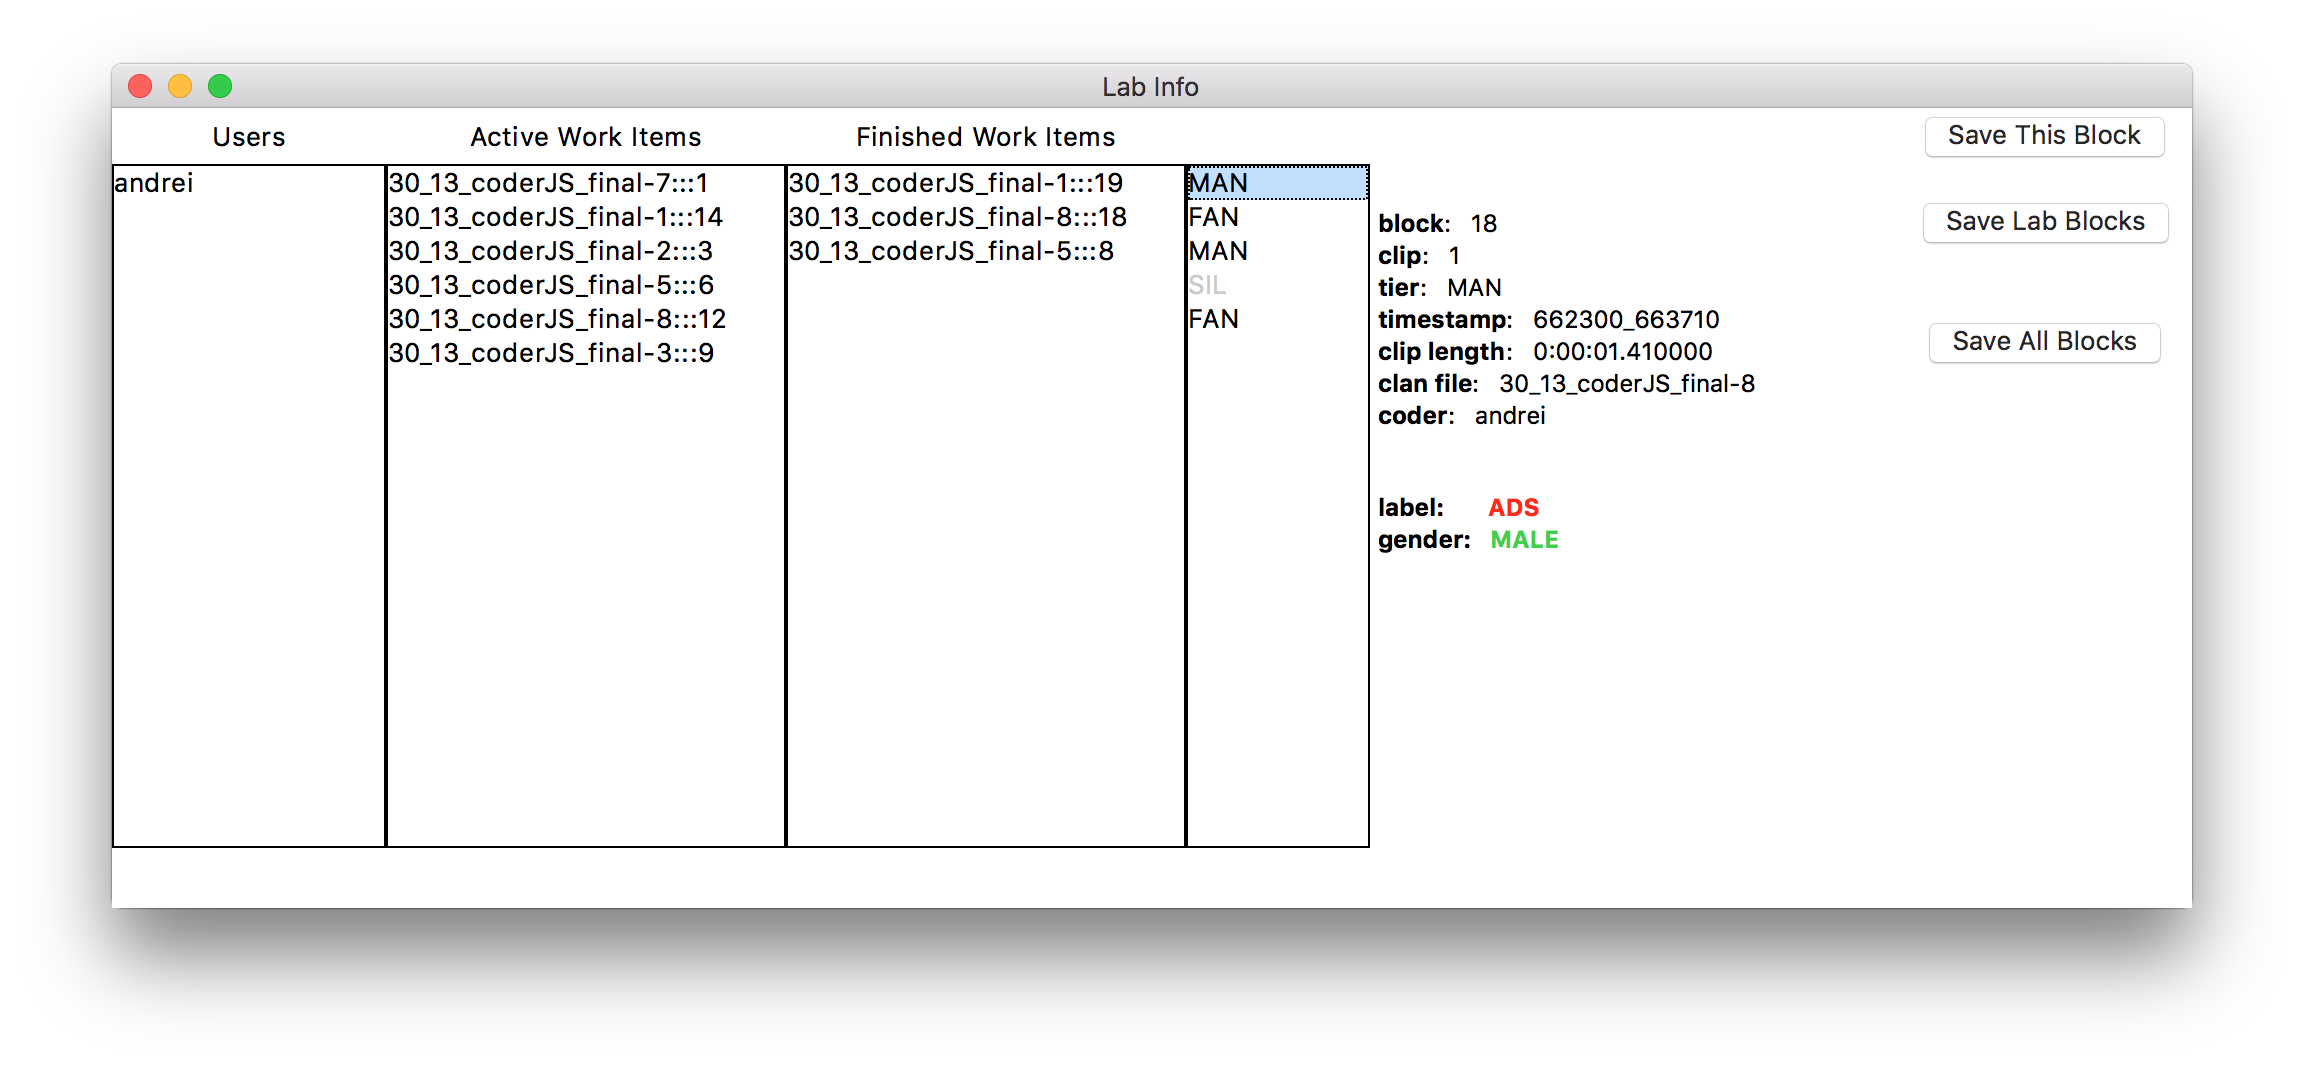
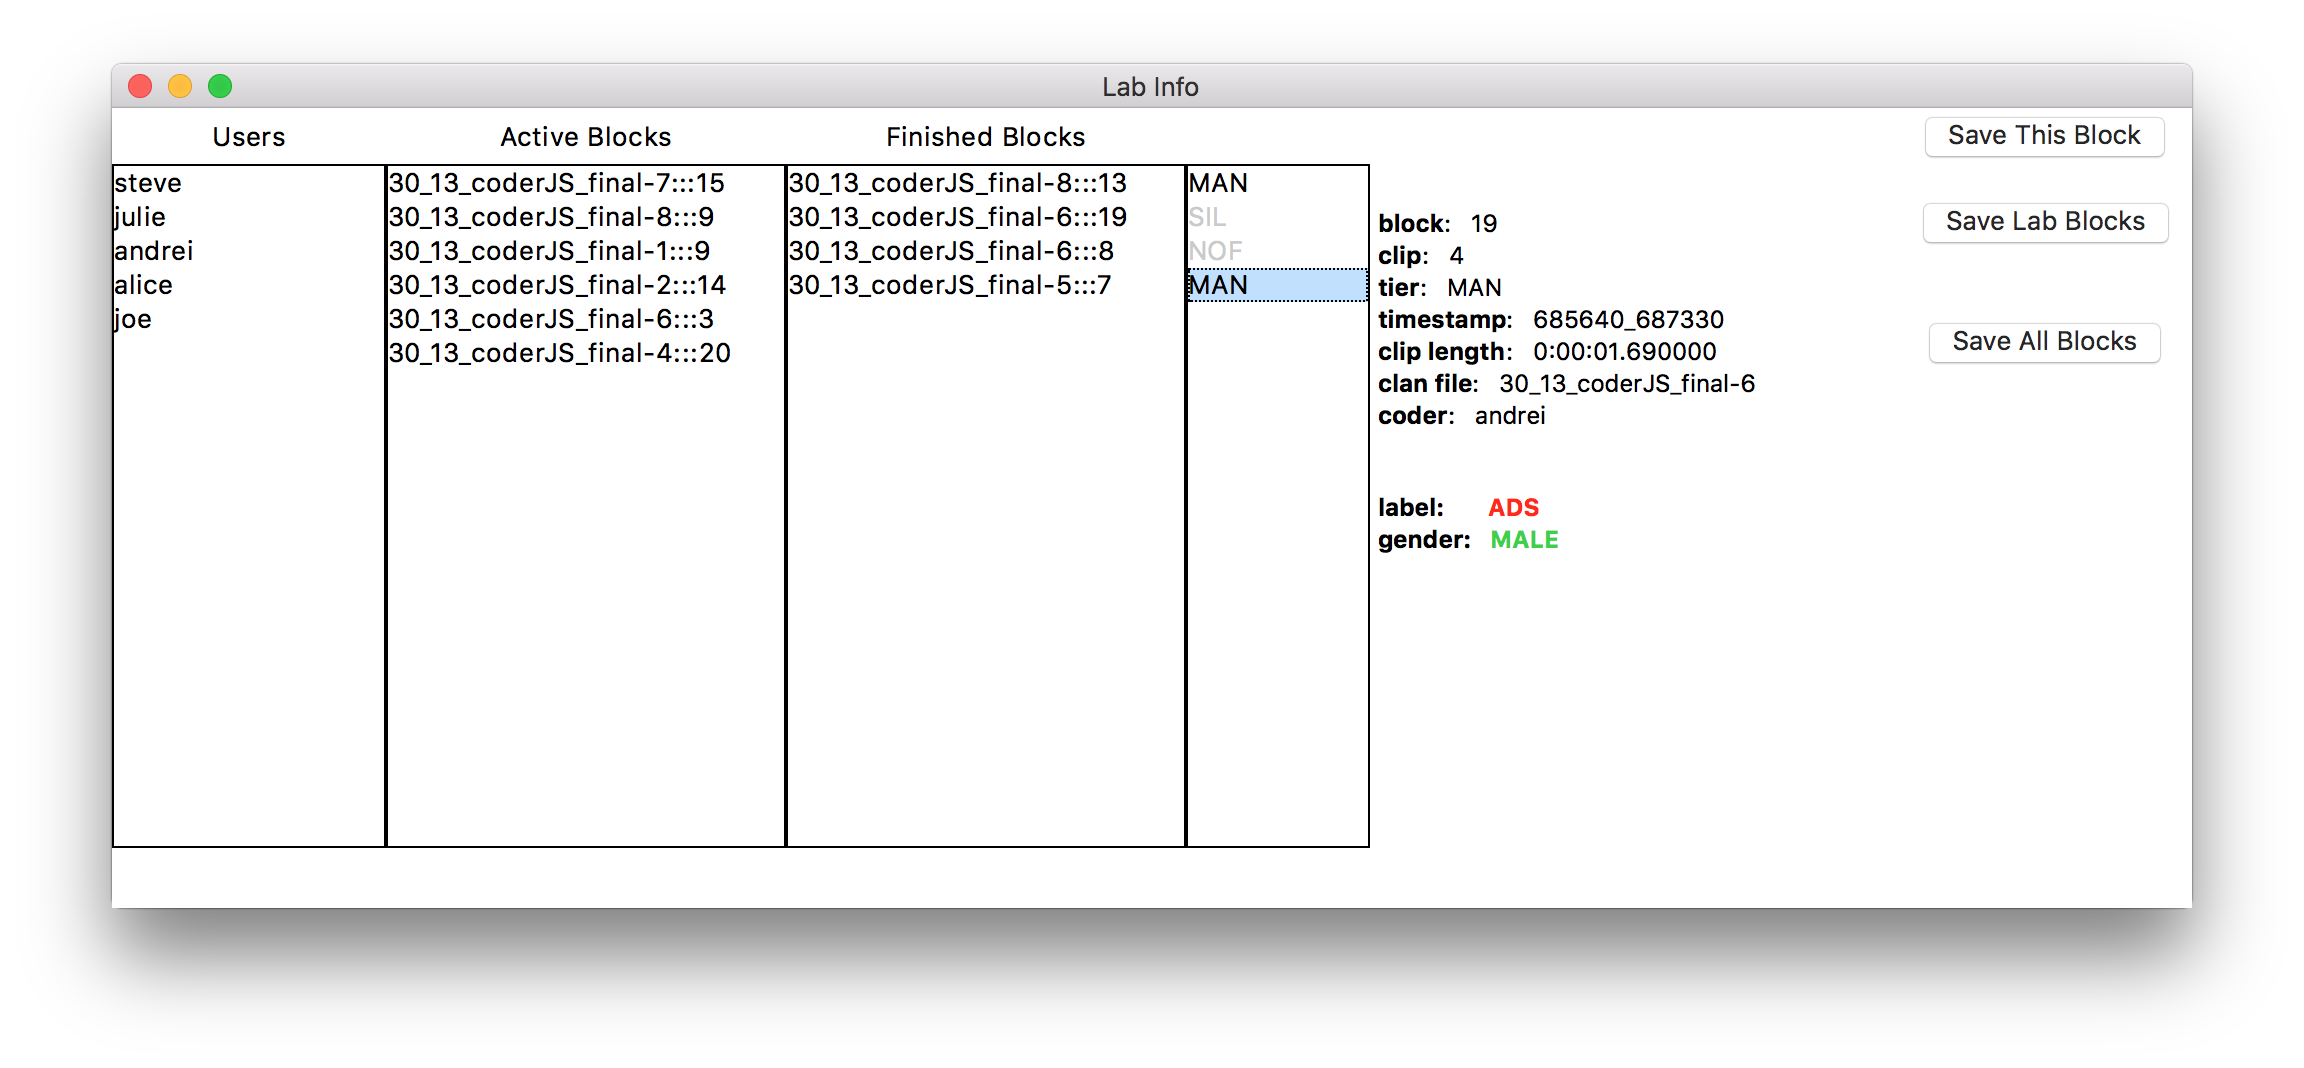
get ready for v0.0.7

diff --git a/idslabel.py b/idslabel.py
@@ -226,7 +226,7 @@ class MainWindow:
                                        command=self.next_clip)
 
         self.output_classifications_button = Button(self.main_frame,
-                                                    text="Save Labels",
+                                                    text="Save Current Block",
                                                     command=self.output_classifications)
 
         self.submit_labels_to_server_button = Button(self.main_frame,
@@ -922,7 +922,7 @@ class MainWindow:
             else:
                 self.block_list.insert(index, element.clip_tier)
 
-        self.coded_block_label = Label(self.main_frame, text="coded block #{}".format(self.current_block_index + 1))
+        self.coded_block_label = Label(self.main_frame, text="block #{}".format(self.current_block_index + 1))
         self.coded_block_label.grid(row=26, column=3)
 
         self.current_clip = self.current_block.clips[0]
@@ -967,7 +967,7 @@ class MainWindow:
             else:
                 self.block_list.insert(index, element.clip_tier)
 
-        self.coded_block_label = Label(self.main_frame, text="coded block #{}".format(self.current_block_index + 1))
+        self.coded_block_label = Label(self.main_frame, text="block #{}".format(self.current_block_index + 1))
         self.coded_block_label.grid(row=26, column=3)
 
         self.current_clip = self.current_block.clips[0]
@@ -999,7 +999,7 @@ class MainWindow:
             else:
                 self.block_list.insert(index, element.clip_tier)
 
-        self.coded_block_label = Label(self.main_frame, text="coded block #{}".format(self.current_block_index + 1))
+        self.coded_block_label = Label(self.main_frame, text="block #{}".format(self.current_block_index + 1))
         self.coded_block_label.grid(row=26, column=3)
 
         self.current_clip = self.current_block.clips[0]
@@ -1016,16 +1016,16 @@ class MainWindow:
         self.block_list.delete(0, END)
 
         for index, element in enumerate(self.current_block.clips):
-            if element.multiline:
-                self.block_list.insert(index, element.clip_tier + " ^--")
-                if element.clip_tier not in ["FAN", "MAN"]:
-                    self.block_list.itemconfig(index, fg="grey")
-            else:
-                self.block_list.insert(index, element.clip_tier)
-                if element.clip_tier not in ["FAN", "MAN"]:
-                    self.block_list.itemconfig(index, fg="grey")
+            # if element.multiline:
+            #     self.block_list.insert(index, element.clip_tier + " ^--")
+            #     if element.clip_tier not in ["FAN", "MAN"]:
+            #         self.block_list.itemconfig(index, fg="grey")
+            # else:
+            self.block_list.insert(index, element.clip_tier)
+            if element.clip_tier not in ["FAN", "MAN"]:
+                self.block_list.itemconfig(index, fg="grey")
 
-        self.coded_block_label = Label(self.main_frame, text="coded block #{}".format(self.current_block_index + 1))
+        self.coded_block_label = Label(self.main_frame, text="block #{}".format(self.current_block_index + 1))
         self.coded_block_label.grid(row=26, column=3)
 
         self.current_clip = self.current_block.clips[0]
@@ -1550,7 +1550,6 @@ class MainWindow:
             for index, lab in enumerate(self.all_lab_data):
                 self.all_lab_info_lab_box.insert(index, lab['key'])
 
-
     def lab_info_ping(self):
         if not lab_info_url:
             self.parse_config()
@@ -1829,7 +1828,6 @@ class MainWindow:
         index = int(box.curselection()[0])
 
         work_item = box.get(index)
-        print work_item
 
         if not lab_info_url:
             self.parse_config()
@@ -1842,12 +1840,10 @@ class MainWindow:
         block_data = None
         if resp.ok:
             block_data = json.loads(resp.content)
-            print block_data
             self.curr_past_block = self.json_to_block(block_data)
             self.load_block_lab_info()
         else:
             showwarning("Bad Request", "Server: {}".format(resp.content))
-            print resp.content
             return
 
     def load_block_lab_info(self):
@@ -1855,17 +1851,14 @@ class MainWindow:
         self.lab_info_past_work_box.delete(0, END)
 
         for index, element in enumerate(self.curr_past_block.clips):
-            if element.multiline:
-                self.lab_info_past_work_box.insert(index, element.clip_tier + " ^--")
-                if element.clip_tier not in ["FAN", "MAN"]:
-                    self.lab_info_past_work_box.itemconfig(index, fg="grey")
-            else:
-                self.lab_info_past_work_box.insert(index, element.clip_tier)
-                if element.clip_tier not in ["FAN", "MAN"]:
-                    self.lab_info_past_work_box.itemconfig(index, fg="grey")
+            self.lab_info_past_work_box.insert(index, element.clip_tier)
+            if element.clip_tier not in ["FAN", "MAN"]:
+                self.lab_info_past_work_box.itemconfig(index, fg="grey")
 
-        self.block_list.selection_clear(0, END)
-        self.block_list.selection_set(0)
+        self.lab_info_past_work_box.selection_clear(0, END)
+        self.lab_info_past_work_box.selection_set(0)
+
+        self.update_lab_info_curr_clip_initial()
 
     def update_lab_info_curr_clip(self, evt):
         box = evt.widget
@@ -1873,32 +1866,86 @@ class MainWindow:
 
         self.curr_lab_info_clip = self.curr_past_block.clips[index]
         work_item = box.get(index)
-        print work_item
 
         self.lab_info_past_work_info.configure(state="normal")
         self.lab_info_past_work_info.delete("1.0", END)
 
-        # block       = "block:       {}\n".format(self.curr_lab_info_clip.block_index)
-        # clip        = "clip:        {}\n".format(self.curr_lab_info_clip.clip_index)
-        # tier        = "tier:        {}\n".format(self.curr_lab_info_clip.clip_tier)
-        #
-        # time        = "timestamp:   {}\n".format(self.curr_lab_info_clip.timestamp)
-        # clip_length = "clip length: {}\n".format(self.curr_lab_info_clip.offset_time)
-        # coder       = "coder:       {}\n".format(self.curr_lab_info_clip.coder)
-        # clanfile    = "clan file:   {}\n\n\n".format(self.curr_lab_info_clip.clan_file)
-        # label       = "label:       {}\n".format(self.curr_lab_info_clip.classification)
-        # gender      = "gender:      {}\n".format(self.curr_lab_info_clip.gender_label)
-        #
-        # self.lab_info_past_work_info.insert('1.0',
-        #                                     block +
-        #                                     clip +
-        #                                     tier +
-        #                                     time +
-        #                                     clip_length +
-        #                                     coder +
-        #                                     clanfile +
-        #                                     label +
-        #                                     gender)
+        info_string = "{}   {}\n{}   {}\n{}   {}\n{}   {}\n{}   {}\n{}   {}\n{}   {}\n\n\n{}       {}\n{}   {}\n" \
+            .format("block:",
+                    str(self.curr_lab_info_clip.block_index),
+                    "clip:",
+                    str(self.curr_lab_info_clip.clip_index),
+                    "tier:",
+                    str(self.curr_lab_info_clip.clip_tier),
+                    "timestamp:",
+                    str(self.curr_lab_info_clip.timestamp),
+                    "clip length:",
+                    str(self.curr_lab_info_clip.offset_time),
+                    "clan file:",
+                    str(self.curr_lab_info_clip.clan_file),
+                    "coder:",
+                    str(self.curr_lab_info_clip.coder),
+                    "label:",
+                    str(self.curr_lab_info_clip.classification),
+                    "gender:",
+                    str(self.curr_lab_info_clip.gender_label))
+
+        self.lab_info_past_work_info.insert('1.0', info_string)
+
+        self.lab_info_past_work_info.tag_add("label", 10.6, 11.0)
+        self.lab_info_past_work_info.tag_add("gender", 11.7, 12.0)
+        self.lab_info_past_work_info.tag_configure("label", foreground="red")
+        self.lab_info_past_work_info.tag_configure("gender", foreground="#333ccc333")
+
+        self.lab_info_past_work_info.tag_add("block_key", 1.0, 1.5)
+        self.lab_info_past_work_info.tag_add("clip_key", 2.0, 2.4)
+        self.lab_info_past_work_info.tag_add("tier_key", 3.0, 3.4)
+        self.lab_info_past_work_info.tag_add("timestamp_key", 4.0, 4.9)
+        self.lab_info_past_work_info.tag_add("clip_length_key", 5.0, 5.11)
+        self.lab_info_past_work_info.tag_add("clan_file_key", 6.0, 6.9)
+        self.lab_info_past_work_info.tag_add("coder_key", 7.0, 7.6)
+        self.lab_info_past_work_info.tag_add("label_key", 10.0, 10.5)
+        self.lab_info_past_work_info.tag_add("gender_key", 11.0, 11.6)
+
+        self.lab_info_past_work_info.tag_add("block_value", 1.5, 2.0)
+        self.lab_info_past_work_info.tag_add("clip_value", 2.4, 3.0)
+        self.lab_info_past_work_info.tag_add("tier_value", 3.4, 4.0)
+        self.lab_info_past_work_info.tag_add("timestamp_value", 4.9, 5.0)
+        self.lab_info_past_work_info.tag_add("clip_length_value", 5.11, 6.0)
+        self.lab_info_past_work_info.tag_add("coder_value", 7.5, 8.0)
+        self.lab_info_past_work_info.tag_add("clan_file_value", 6.9, 7.0)
+        self.lab_info_past_work_info.tag_add("label_value", 10.5, 11.0)
+        self.lab_info_past_work_info.tag_add("gender_value", 11.6, 12.0)
+
+        self.lab_info_past_work_info.tag_configure("block_key", font=("System", "12", "bold"))
+        self.lab_info_past_work_info.tag_configure("clip_key", font=("System", "12", "bold"))
+        self.lab_info_past_work_info.tag_configure("tier_key", font=("System", "12", "bold"))
+        self.lab_info_past_work_info.tag_configure("timestamp_key", font=("System", "12", "bold"))
+        self.lab_info_past_work_info.tag_configure("clip_length_key", font=("System", "12", "bold"))
+        self.lab_info_past_work_info.tag_configure("coder_key", font=("System", "12", "bold"))
+        self.lab_info_past_work_info.tag_configure("clan_file_key", font=("System", "12", "bold"))
+        self.lab_info_past_work_info.tag_configure("label_key", font=("System", "12", "bold"))
+        self.lab_info_past_work_info.tag_configure("gender_key", font=("System", "12", "bold"))
+
+        self.lab_info_past_work_info.tag_configure("block_value", font=("System", "12"))
+        self.lab_info_past_work_info.tag_configure("clip_value", font=("System", "12"))
+        self.lab_info_past_work_info.tag_configure("tier_value", font=("System", "12"))
+        self.lab_info_past_work_info.tag_configure("timestamp_value", font=("System", "12"))
+        self.lab_info_past_work_info.tag_configure("clip_length_value", font=("System", "12"))
+        self.lab_info_past_work_info.tag_configure("coder_value", font=("System", "12"))
+        self.lab_info_past_work_info.tag_configure("clan_file_value", font=("System", "12"))
+        self.lab_info_past_work_info.tag_configure("label_value", font=("System", "12", "bold"))
+        self.lab_info_past_work_info.tag_configure("gender_value", font=("System", "12", "bold"))
+
+        self.lab_info_past_work_info.configure(state="disabled")
+
+    def update_lab_info_curr_clip_initial(self):
+        self.lab_info_past_work_box.selection_set(0)
+        self.curr_lab_info_clip = self.curr_past_block.clips[0]
+        #work_item = box.get(index)
+
+        self.lab_info_past_work_info.configure(state="normal")
+        self.lab_info_past_work_info.delete("1.0", END)
 
         info_string = "{}   {}\n{}   {}\n{}   {}\n{}   {}\n{}   {}\n{}   {}\n{}   {}\n\n\n{}       {}\n{}   {}\n" \
             .format("block:",
